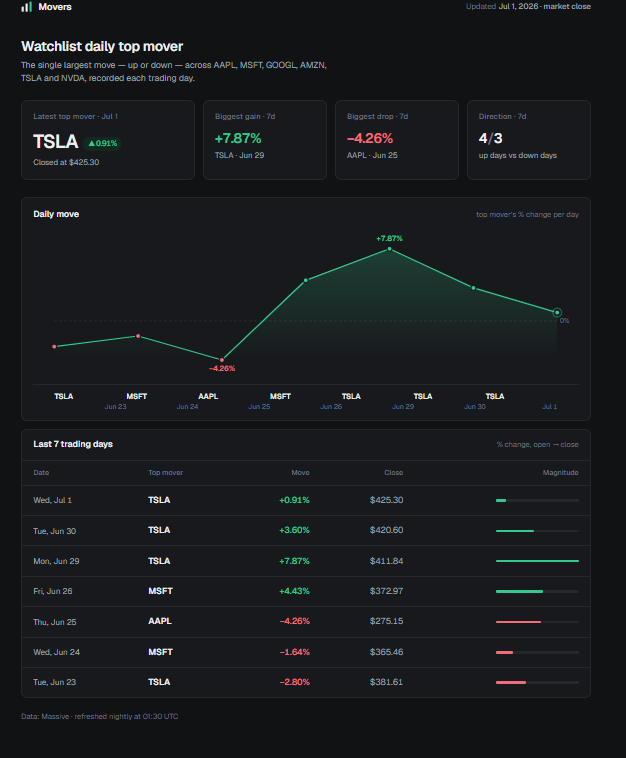
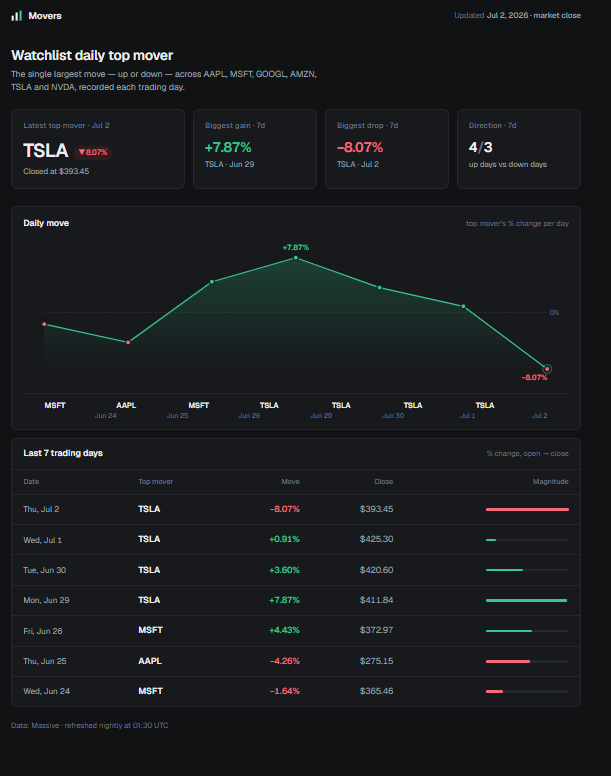
feat: implement market movers dashboard application with interactive charts and data tables

diff --git a/frontend/src/App.jsx b/frontend/src/App.jsx
@@ -278,7 +278,7 @@ export default function App() {
       )}
 
       <div className="foot">
-        <span>Data: Massive · refreshed nightly at 01:30 UTC</span>
+        <span>Data: Massive · refreshed nightly at 06:00 UTC</span>
       </div>
     </div>
   )